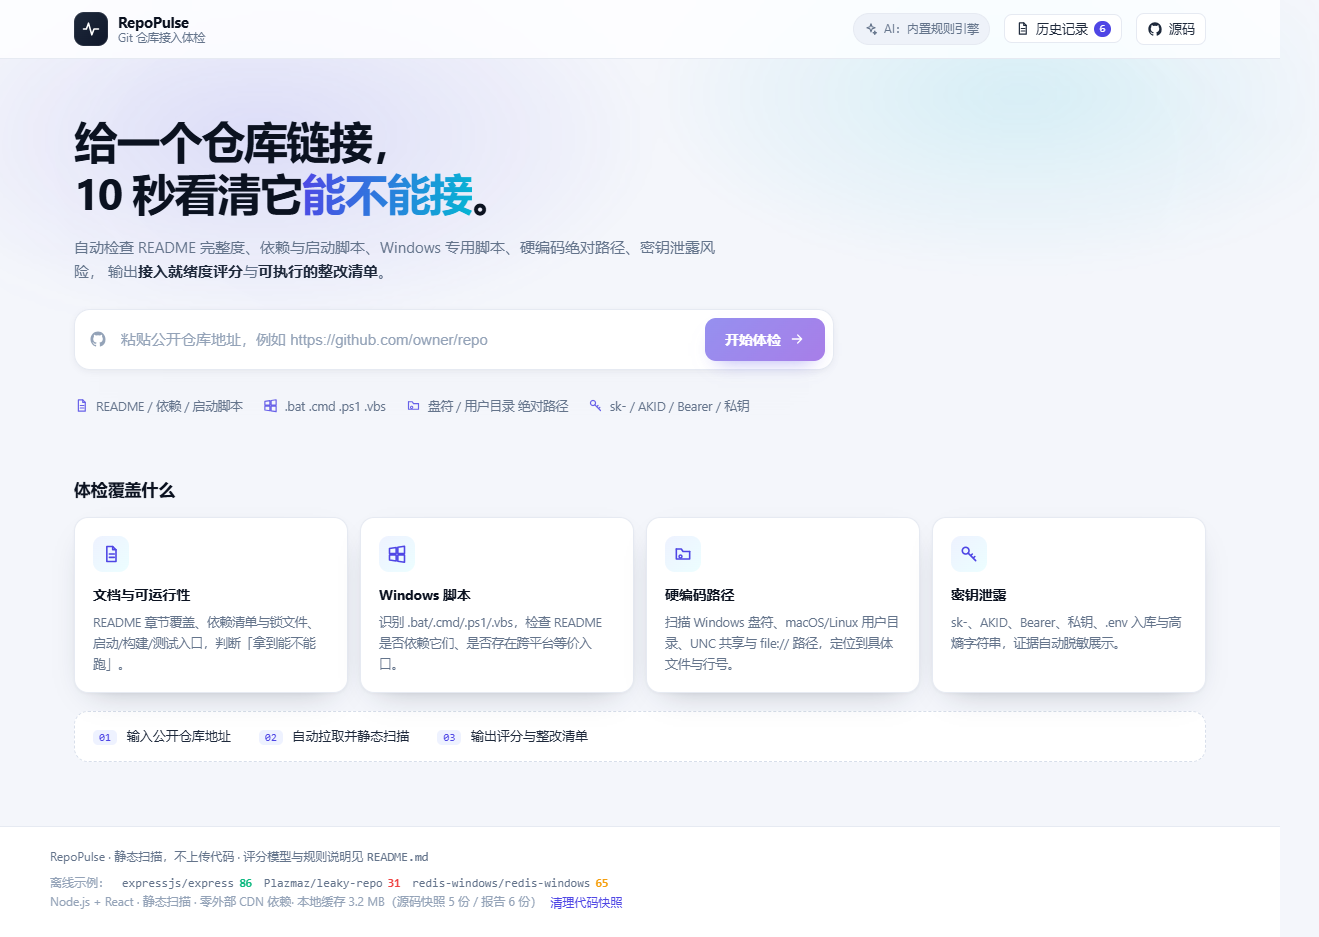
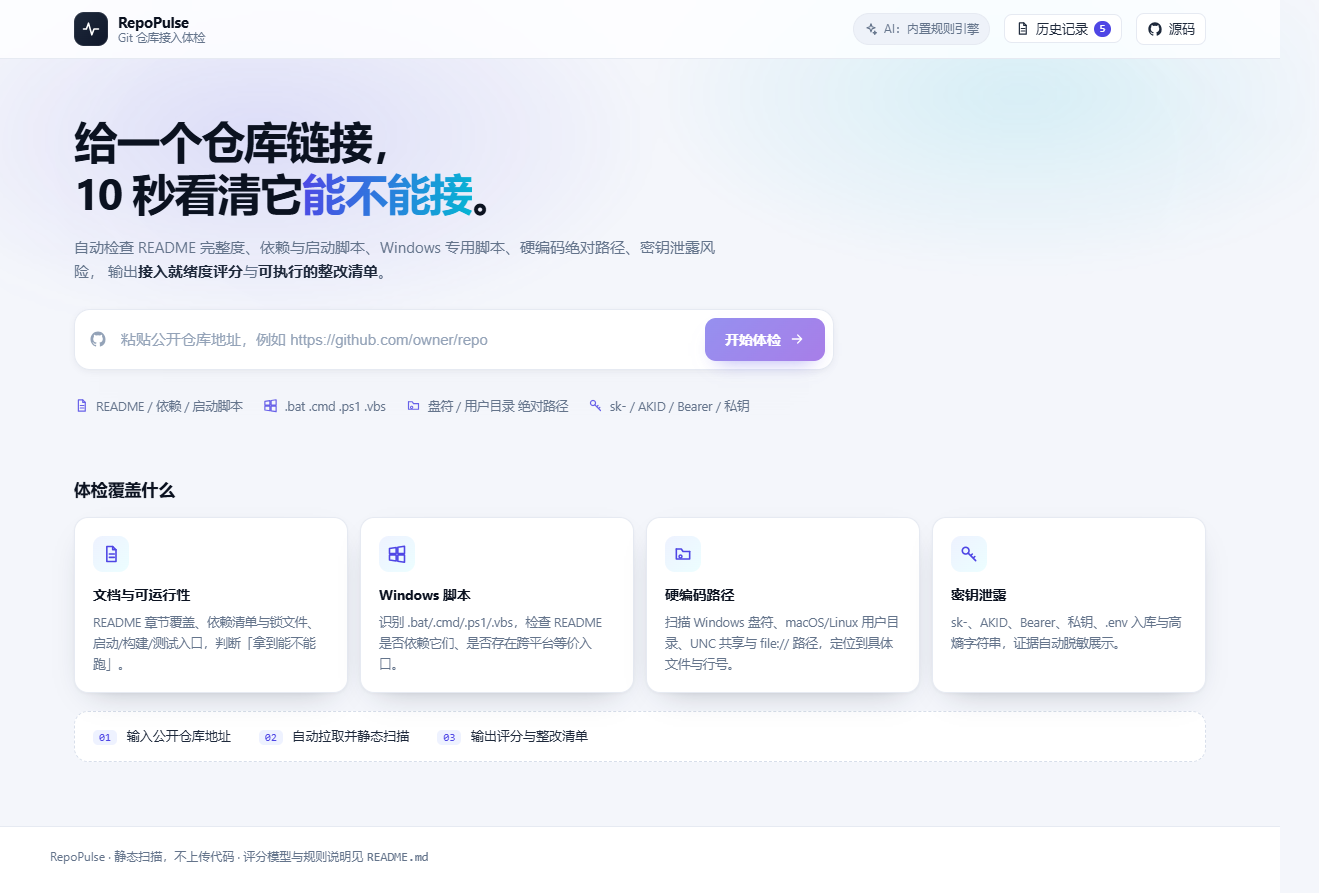
style: 精简页脚，只保留项目说明
- 去掉页脚的「离线示例」链接行与「Node.js + React · 本地缓存 · 清理代码快照」行
- 移除随之不再使用的 cache 状态、doCleanCache、formatBytes 及对应样式
- README 更新缓存清理入口说明（改为 npm run clean / 历史记录清空）
- 首页截图同步更新

diff --git a/web/src/App.tsx b/web/src/App.tsx
@@ -1,10 +1,8 @@
 import { useCallback, useEffect, useMemo, useRef, useState } from 'react'
 import {
   analyze,
-  cleanCache,
   clearHistory,
   deleteHistory,
-  getCacheStats,
   getDemo,
   getHistory,
   getHistoryReport,
@@ -14,7 +12,7 @@ import {
 import { HistoryPanel } from './components/HistoryPanel'
 import { ReportView } from './components/Report'
 import { Icon, scoreColor } from './components/ui'
-import type { CacheStats, DemoSummary, HistoryItem, Report } from './types'
+import type { DemoSummary, HistoryItem, Report } from './types'
 
 const STAGES = [
   '解析仓库地址',
@@ -34,8 +32,6 @@ export default function App() {
   const [error, setError] = useState<{ message: string; hint?: string } | null>(null)
   const [aiInfo, setAiInfo] = useState<{ aiProvider: string | null; version: string } | null>(null)
   const [demos, setDemos] = useState<DemoSummary[]>([])
-  const [cache, setCache] = useState<CacheStats | null>(null)
-  const [cleaning, setCleaning] = useState(false)
   const [history, setHistory] = useState<HistoryItem[]>([])
   const [historyOpen, setHistoryOpen] = useState(false)
   const [historyLoading, setHistoryLoading] = useState(false)
@@ -57,30 +53,8 @@ export default function App() {
     listDemos()
       .then(setDemos)
       .catch(() => setDemos([]))
-    getCacheStats()
-      .then(setCache)
-      .catch(() => setCache(null))
     refreshHistory()
   }, [refreshHistory])
-
-  const refreshCache = useCallback(() => {
-    getCacheStats()
-      .then(setCache)
-      .catch(() => setCache(null))
-  }, [])
-
-  const doCleanCache = useCallback(async () => {
-    if (!window.confirm('将删除本机缓存的所有仓库源码快照（报告会保留）。确定继续？')) return
-    setCleaning(true)
-    try {
-      const next = await cleanCache(false)
-      setCache(next)
-    } catch {
-      /* 忽略，下次刷新会重新拉取 */
-    } finally {
-      setCleaning(false)
-    }
-  }, [])
 
   const openHistory = useCallback(() => {
     setHistoryOpen(true)
@@ -106,12 +80,11 @@ export default function App() {
       try {
         await deleteHistory(item.id)
         refreshHistory()
-        refreshCache()
       } catch {
         /* 忽略 */
       }
     },
-    [refreshHistory, refreshCache],
+    [refreshHistory],
   )
 
   const clearAllHistory = useCallback(async () => {
@@ -119,11 +92,10 @@ export default function App() {
     try {
       await clearHistory()
       refreshHistory()
-      refreshCache()
     } catch {
       /* 忽略 */
     }
-  }, [refreshHistory, refreshCache])
+  }, [refreshHistory])
 
   useEffect(() => {
     if (!loading) return
@@ -150,10 +122,9 @@ export default function App() {
     } finally {
       setLoading(false)
       setRefreshing(false)
-      refreshCache()
       refreshHistory()
     }
-  }, [refreshCache, refreshHistory])
+  }, [refreshHistory])
 
   const onSubmit = (e: React.FormEvent) => {
     e.preventDefault()
@@ -304,28 +275,6 @@ export default function App() {
         <span>
           RepoPulse · 静态扫描，不上传代码 · 评分模型与规则说明见 <code className="mono">README.md</code>
         </span>
-        {demos.length > 0 && (
-          <span className="footer-demos">
-            离线示例：
-            {demos.map((d) => (
-              <button key={d.id} type="button" className="footer-demo-link" onClick={() => loadDemo(d.id)}>
-                {d.slug}
-                <b style={{ color: scoreColor(d.score) }}>{d.score}</b>
-              </button>
-            ))}
-          </span>
-        )}
-        <span className="footer-meta">
-          Node.js + React · 静态扫描 · 零外部 CDN 依赖
-          {cache && cache.totalBytes > 0 && (
-            <span className="cache-info">
-              {' · '}本地缓存 {formatBytes(cache.totalBytes)}（源码快照 {cache.sources} 份 / 报告 {cache.reports} 份）
-              <button type="button" className="link-btn" onClick={doCleanCache} disabled={cleaning}>
-                {cleaning ? '清理中…' : '清理代码快照'}
-              </button>
-            </span>
-          )}
-        </span>
       </footer>
 
       {historyOpen && (
@@ -340,13 +289,6 @@ export default function App() {
       )}
     </div>
   )
-}
-
-function formatBytes(n: number) {
-  if (!Number.isFinite(n) || n <= 0) return '0 B'
-  if (n < 1024) return `${n} B`
-  if (n < 1024 * 1024) return `${(n / 1024).toFixed(1)} KB`
-  return `${(n / 1024 / 1024).toFixed(1)} MB`
 }
 
 function LoadingPanel({ url, stage, elapsed }: { url: string; stage: number; elapsed: number }) {

diff --git a/web/src/styles.css b/web/src/styles.css
@@ -1834,54 +1834,6 @@ code.mono,
   margin: 0 auto;
 }
 
-.footer-meta {
-  margin-top: 4px;
-  color: var(--muted-2);
-}
-
-.footer .footer-demos {
-  display: flex;
-  align-items: center;
-  gap: 12px;
-  flex-wrap: wrap;
-  margin-top: 6px;
-  font-size: 12px;
-  color: var(--muted-2);
-}
-
-.footer-demo-link {
-  border: none;
-  background: none;
-  padding: 0;
-  font-size: 12px;
-  font-family: var(--mono);
-  color: var(--muted);
-  display: inline-flex;
-  align-items: center;
-  gap: 5px;
-}
-
-.footer-demo-link b {
-  font-size: 11.5px;
-}
-
-.footer-demo-link:hover {
-  color: var(--brand);
-  text-decoration: underline;
-}
-
-.cache-info {
-  display: inline-flex;
-  align-items: center;
-  gap: 8px;
-  flex-wrap: wrap;
-}
-
-.cache-info .link-btn {
-  font-size: 12px;
-  padding: 0;
-}
-
 /* ---------------- 历史记录 ---------------- */
 .history-btn {
   display: inline-flex;

diff --git a/README.md b/README.md
@@ -400,7 +400,7 @@ npm run clean -- --all
 
 ![历史记录](docs/screenshots/07-history.png)
 
-页脚也会显示「本地缓存 xx MB（源码快照 N 份 / 报告 N 份）」，点「清理代码快照」可只清源码不动报告。
+只想清源码快照、保留报告时，用 `npm run clean`（或 `POST /api/cache/clean`）；要连报告一起清空，用历史记录里的「清空全部」或 `npm run clean -- --all`。
 
 > **关于 AI 建议**：未配置大模型时完全离线；配置了 `OPENAI_API_KEY` 等之后，发送给模型的是**扫描结果摘要**
 > （仓库名、评分、风险标题、文件路径、整改建议），**不会发送源码内容**。
